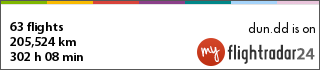
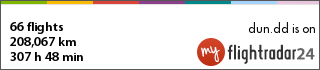
update flight log

diff --git a/vbeta.html b/vbeta.html
@@ -2883,7 +2883,7 @@
                         </div>
                         <h1 class="text-center mb-3 welcome-title">Hello world by <span class="text-primary">ddd</span></h1>
                         <div class="welcome-divider mb-4"></div>
-                        <p class="lead welcome-text">This website was launched on <span class="text-primary fw-bold">June 2, 2022</span>.</p>
+                        <p class="lead welcome-text">This website was launched on <span class="text-primary fw-bold">2 June, 2022</span>.</p>
                         <p class="welcome-version">You are watching the update for <span class="badge bg-primary">[firstwebsideofdunc]</span> v0.9 update at xx-xx-2025 02:00</p>
                     </div>
                 </div>
@@ -2997,7 +2997,7 @@
                     <p class="lead text-muted">Track my journey around the globe</p>
                 </div>
                 
-                <div class="map-stats-summary row align-items-center mb-4">
+                <div class="map-stats-summary row align-items-center mb-4 justify-content-center">
                     <div class="col-lg-4 col-md-6 mb-3">
                         <div class="stats-card">
                             <div class="stats-icon">
@@ -3006,17 +3006,6 @@
                             <div class="stats-info">
                                 <h3 id="countriesCount">0</h3>
                                 <p>Countries Visited</p>
-                            </div>
-                        </div>
-                    </div>
-                    <div class="col-lg-4 col-md-6 mb-3">
-                        <div class="stats-card">
-                            <div class="stats-icon">
-                                <i class="fas fa-plane"></i>
-                            </div>
-                            <div class="stats-info">
-                                <h3 id="flightsCount">0</h3>
-                                <p>Flights Taken</p>
                             </div>
                         </div>
                     </div>
@@ -3041,10 +3030,10 @@
                             <i class="fas fa-plane-departure"></i>
                         </div>
                         <div class="stats-info">
-                            <h3 id="totalFlights">63</h3>
+                            <h3 id="totalFlights">66</h3>
                             <p>Flights</p>
                             <span class="sub-text"><b>10</b> domestic</span><br>
-                            <span class="sub-text"><b>53</b> international</span>
+                            <span class="sub-text"><b>56</b> international</span>
                         </div>
                     </div>
                 </div>
@@ -3054,10 +3043,10 @@
                             <i class="fas fa-route"></i>
                         </div>
                         <div class="stats-info">
-                            <h3 id="totalDistance">205,524 <span class="unit">km</span></h3>
+                            <h3 id="totalDistance">208,067 <span class="unit">km</span></h3>
                             <p>Total Distance</p>
-                            <span class="sub-text"><b>127,707</b> miles</span><br>
-                            <span class="sub-text"><b>5.1x</b> around Earth</span>
+                            <span class="sub-text"><b>129,287</b> miles</span><br>
+                            <span class="sub-text"><b>5.2x</b> around Earth</span>
                         </div>
                     </div>
                 </div>
@@ -3067,9 +3056,9 @@
                             <i class="fas fa-clock"></i>
                         </div>
                         <div class="stats-info">
-                            <h3 id="totalFlightTime">302 <span class="unit">h</span> 8 <span class="unit">min</span></h3>
+                            <h3 id="totalFlightTime">307 <span class="unit">h</span> 48 <span class="unit">min</span></h3>
                             <p>Flight Time</p>
-                            <span class="sub-text"><b>12.6</b> days</span><br>
+                            <span class="sub-text"><b>12.8</b> days</span><br>
                             <span class="sub-text"><b>1.8</b> weeks</span>
                         </div>
                     </div>
@@ -3080,10 +3069,10 @@
                             <i class="fas fa-cloud"></i>
                         </div>
                         <div class="stats-info">
-                            <h3 id="totalCO2">25.2 <span class="unit">tons CO<sub>2</sub></span></h3>
+                            <h3 id="totalCO2">25.6 <span class="unit">tons CO<sub>2</sub></span></h3>
                             <p>Carbon Emissions</p>
-                            <span class="sub-text"><b>1.39</b> kg methane</span><br>
-                            <span class="sub-text"><b>1.14</b> kg nitrous oxide</span>
+                            <span class="sub-text"><b>1.41</b> kg methane</span><br>
+                            <span class="sub-text"><b>1.15</b> kg nitrous oxide</span>
                         </div>
                     </div>
                 </div>
@@ -3112,133 +3101,140 @@
                                 <th>Flight</th>
                                 <th>From → To</th>
                                 <th>Aircraft</th>
-                                <th>Status</th>
+                                <th>Airline</th>
                             </tr>
                         </thead>
                         <tbody>
                             <tr>
+                                <td>2025-08-04</td>
+                                <td>W95446</td>
+                                <td>TLL → LTN</td>
+                                <td>A21N</td>
+                                <td>Wizz Air UK</td>
+                            </tr>
+                            <tr>
+                                <td>2025-07-31</td>
+                                <td>AY1340</td>
+                                <td>LHR → HEL</td>
+                                <td>A321</td>
+                                <td>Finnair</td>
+                            </tr>
+                            <tr>
                                 <td>2025-07-25</td>
                                 <td>U28636</td>
                                 <td>HAM → LGW</td>
-                                <td>A319</td>
-                                <td><span class="badge bg-secondary">Upcoming</span></td>
+                                <td>A19N</td>
+                                <td>Easyjet</td>
                             </tr>
                             <tr>
                                 <td>2025-07-16</td>
                                 <td>U28403</td>
                                 <td>LGW → CDG</td>
-                                <td>A320</td>
-                                <td><span class="badge bg-secondary">Upcoming</span></td>
+                                <td>A19N</td>
+                                <td>Easyjet</td>
+                            </tr>
+                            <tr>
+                                <td>2025-07-06</td>
+                                <td>BA377</td>
+                                <td>TLS → LHR</td>
+                                <td>A319</td>
+                                <td>British Airways</td>
+                            </tr>
+                            <tr>
+                                <td>2025-07-02</td>
+                                <td>U24384</td>
+                                <td>BCN → LYS</td>
+                                <td>A319</td>
+                                <td>Easyjet</td>
+                            </tr>
+                            <tr>
+                                <td>2025-07-02</td>
+                                <td>U27195</td>
+                                <td>LGW → BCN</td>
+                                <td>A319</td>
+                                <td>Easyjet</td>
                             </tr>
                             <tr>
                                 <td>2025-05-21</td>
                                 <td>U28768</td>
                                 <td>MLA → LGW</td>
                                 <td>A320</td>
-                                <td><span class="badge bg-success">Landed</span></td>
+                                <td>Easyjet</td>
                             </tr>
                             <tr>
                                 <td>2025-05-18</td>
                                 <td>U28761</td>
                                 <td>LGW → MLA</td>
                                 <td>A21N</td>
-                                <td><span class="badge bg-success">Landed</span></td>
+                                <td>Easyjet</td>
                             </tr>
                             <tr>
                                 <td>2025-05-04</td>
                                 <td>W61801</td>
                                 <td>WRO → LTN</td>
                                 <td>A21N</td>
-                                <td><span class="badge bg-success">Landed</span></td>
+                                <td>Wizz Air</td>
                             </tr>
                             <tr>
                                 <td>2025-04-29</td>
                                 <td>U28821</td>
                                 <td>LGW → KRK</td>
                                 <td>A319</td>
-                                <td><span class="badge bg-success">Landed</span></td>
+                                <td>Easyjet</td>
                             </tr>
                             <tr>
                                 <td>2024-12-13</td>
                                 <td>BA491</td>
                                 <td>GIB → LHR</td>
                                 <td>A320</td>
-                                <td><span class="badge bg-success">Landed</span></td>
+                                <td>British Airways</td>
                             </tr>
                             <tr>
                                 <td>2024-12-12</td>
                                 <td>U28791</td>
                                 <td>LGW → GIB</td>
                                 <td>A320</td>
-                                <td><span class="badge bg-success">Landed</span></td>
+                                <td>Easyjet</td>
                             </tr>
                             <tr>
                                 <td>2024-10-03</td>
                                 <td>U2878</td>
                                 <td>JER → LGW</td>
                                 <td>A319</td>
-                                <td><span class="badge bg-success">Landed</span></td>
+                                <td>Easyjet</td>
                             </tr>
                             <tr>
                                 <td>2024-10-02</td>
                                 <td>U2873</td>
                                 <td>LGW → JER</td>
                                 <td>A320</td>
-                                <td><span class="badge bg-success">Landed</span></td>
+                                <td>Easyjet</td>
                             </tr>
                             <tr>
                                 <td>2024-09-10</td>
                                 <td>FR126</td>
                                 <td>DUB → LGW</td>
                                 <td>B738</td>
-                                <td><span class="badge bg-success">Landed</span></td>
+                                <td>Ryanair</td>
                             </tr>
                             <tr>
                                 <td>2024-09-09</td>
                                 <td>FR115</td>
                                 <td>LGW → DUB</td>
                                 <td>B738</td>
-                                <td><span class="badge bg-success">Landed</span></td>
+                                <td>Ryanair</td>
                             </tr>
                             <tr>
                                 <td>2024-09-05</td>
                                 <td>BT871</td>
                                 <td>TLL → LGW</td>
                                 <td>BCS3</td>
-                                <td><span class="badge bg-success">Landed</span></td>
-                            </tr>
-                            <tr>
-                                <td>2024-08-29</td>
-                                <td>BT652</td>
-                                <td>LGW → RIX</td>
-                                <td>BCS3</td>
-                                <td><span class="badge bg-success">Landed</span></td>
-                            </tr>
-                            <tr>
-                                <td>2024-06-15</td>
-                                <td>BA988</td>
-                                <td>LHR → BER</td>
-                                <td>A320</td>
-                                <td><span class="badge bg-success">Landed</span></td>
-                            </tr>
-                            <tr>
-                                <td>2024-01-17</td>
-                                <td>BA995</td>
-                                <td>BER → LHR</td>
-                                <td>A319</td>
-                                <td><span class="badge bg-success">Landed</span></td>
-                            </tr>
-                            <tr>
-                                <td>2024-01-17</td>
-                                <td>U28781</td>
-                                <td>LGW → PRG</td>
-                                <td>A319</td>
-                                <td><span class="badge bg-success">Landed</span></td>
+                                <td>AirBaltic</td>
                             </tr>
                         </tbody>
                     </table>
                 </div>
-                <div class="text-muted small mt-2">* Only recent flights shown. For full history, see <a href="https://my.flightradar24.com/dundd" target="_blank" rel="noopener">FlightRadar24</a>.</div>
+                <div class="text-muted small mt-2">* Only recent flights shown. For full history, see <a href="https://my.flightradar24.com/dundd4" target="_blank" rel="noopener">FlightRadar24</a>.</div>
             </div>
 
             <div class="map-container">
@@ -3530,10 +3526,10 @@
 
             <div class="content-card" id="memoir">
                 <div class="d-flex justify-content-between align-items-center mb-4">
-                    <h2 class="display-6 fw-bold text-primary m-0">(WIP) Memoir - Anthology Series</h2>
+                    <h2 class="display-6 fw-bold text-primary m-0">Dun.DD Threads EMO</h2>
                     <span class="badge bg-warning px-3 py-2">In Progress</span>
                 </div>
-                <p class="lead text-muted mb-4">A collection of personal stories and experiences</p>
+                <p class="lead text-muted mb-4">A memoir anthology collecting Dun.DD's secondary school and university memories, crafted over more than a year and a half</p>
                 
                 <div class="row g-4">
                     <div class="col-md-6">
@@ -3541,11 +3537,11 @@
                             <div class="card-body">
                                 <div class="d-flex align-items-center mb-3">
                                     <img src="img/dunddthreadslogo.png" alt="Anthology Series" class="me-3" width="48" height="48">
-                                    <h5 class="card-title m-0">Chinese Anthology Series</h5>
+                                    <h5 class="card-title m-0">Dun.DD Threads EMO </h5>
                                 </div>
-                                <p class="card-text text-muted">Includes stories from secondary school and foundation year experiences.</p>
+                                <p class="card-text text-muted">A memoir anthology collecting Dun.DD's secondary school and university memories, crafted over more than a year and a half.</p>
                                 <p class="badge bg-info">Chinese Version</p>
-                                <a href="https://dundd2.github.io/Dundd-Threads/" class="btn btn-outline-primary mt-3 w-100">
+                                <a href="https://dunddemo.online/" class="btn btn-outline-primary mt-3 w-100">
                                     <i class="fas fa-book-open me-2"></i> Read Anthology
                                 </a>
                             </div>
